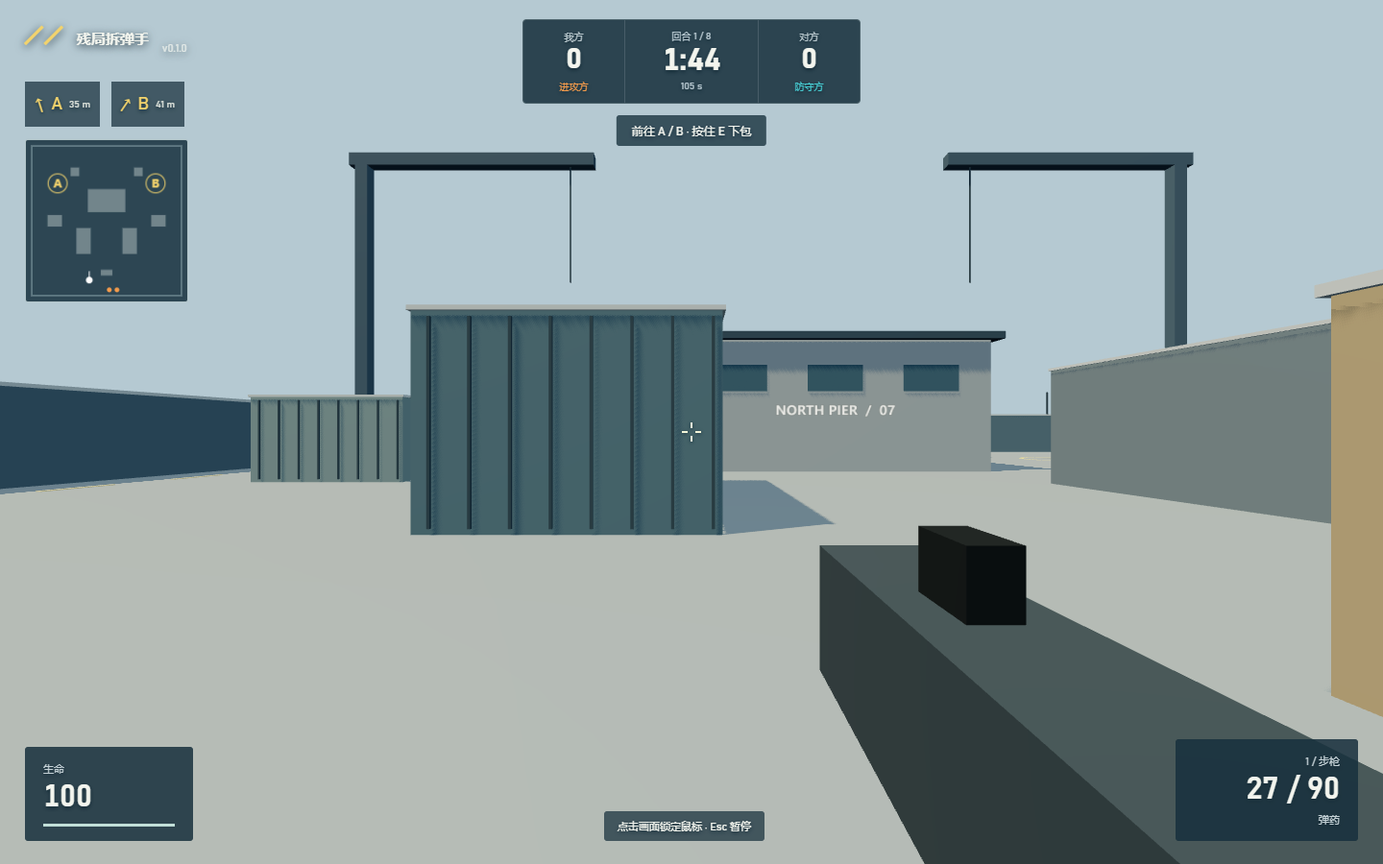
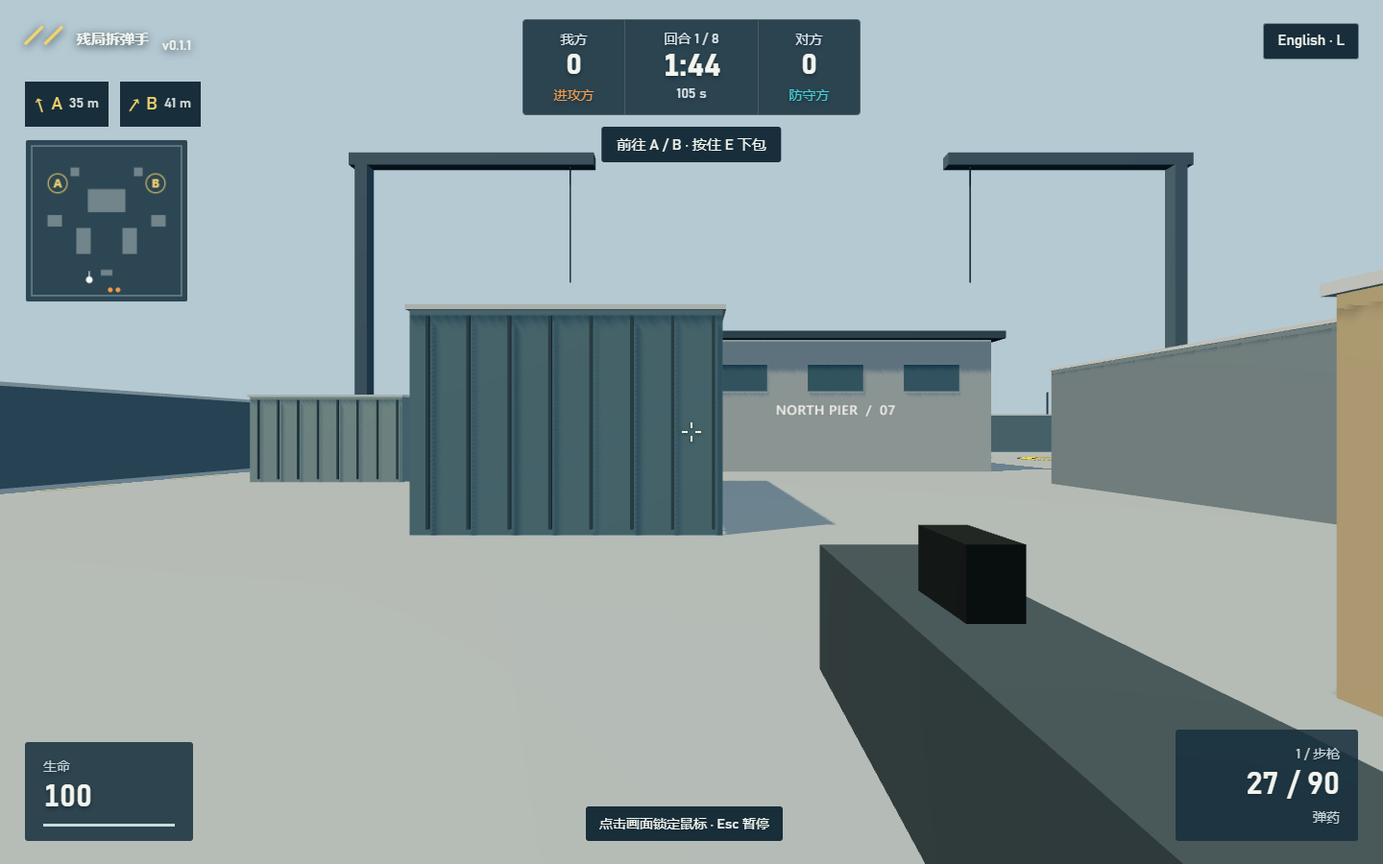
fix: improve gameplay readability and release v0.1.1

diff --git a/src/style.css b/src/style.css
@@ -1,5 +1,12 @@
 :root{font-family:'Bahnschrift','Segoe UI','Microsoft YaHei',sans-serif;color:#f3f5ee;font-synthesis:none;background:#243e4b;--yellow:#f3d36c;--cyan:#47ccd2;--orange:#f49b4b}
-*{box-sizing:border-box}body{margin:0;overflow:hidden}button,select{font:inherit}button{cursor:pointer;color:inherit;background:#284656;border:1px solid #718d98;padding:12px 18px;border-radius:3px}button:hover{background:#3b5a69}button:focus-visible,select:focus-visible{outline:3px solid var(--yellow);outline-offset:4px}button.primary{background:var(--yellow);color:#203745;border-color:var(--yellow);font-weight:700}button.primary:hover{background:#ffe498}[hidden]{display:none!important}#scene{position:fixed;inset:0;display:block;width:100%;height:100%}#brand{position:absolute;left:42px;top:30px;display:flex;align-items:center;gap:14px;text-shadow:0 2px 10px #13252f}#brand-name{font-weight:700;font-size:20px}#brand small{font-size:11px;opacity:.7;align-self:flex-end}.brand-mark{font-size:34px;color:var(--yellow);font-weight:bold;line-height:1}#brand.compact{top:23px;left:25px}#brand.compact #brand-name{font-size:15px}#top-actions{position:absolute;right:32px;top:25px;display:flex;gap:8px;z-index:5}#top-actions button{padding:8px 12px;background:#183541cb;font-size:13px}#menu{position:absolute;inset:0;background:linear-gradient(90deg,#142e3df7 0%,#142e3de8 34%,#142e3d70 57%,transparent 82%);display:flex;align-items:center;padding:95px 6vw 40px}.menu-panel{width:min(540px,48vw)}.location{display:flex;align-items:center;gap:9px;color:#bacbd1;font-size:13px}.location>span{display:block;width:7px;height:7px;border-radius:50%;background:var(--yellow)}h1{font-size:clamp(36px,4.4vw,66px);line-height:1.12;letter-spacing:-1.5px;margin:22px 0;font-weight:750;text-wrap:balance}.intro{max-width:470px;font-size:15px;line-height:1.9;color:#bfced3;margin:0 0 28px}.rules{display:flex;gap:24px;margin:25px 0 30px}.rules>div{flex:1;border-left:2px solid #758890;padding-left:12px}.rules b{display:block;font-size:19px;font-weight:600}.rules span{display:block;font-size:11px;line-height:1.6;color:#aebfc6;margin-top:7px}.settings{display:flex;gap:16px;margin:20px 0}.settings label{flex:1;font-size:12px;color:#c0cdd0;display:grid;gap:8px}select{width:100%;padding:11px 13px;background:#274452;border:1px solid #6c848c;border-radius:3px;color:#f3f5ee}.menu-buttons{display:flex;gap:12px}.primary{min-width:230px;display:flex;justify-content:space-between;align-items:center;gap:25px;font-size:17px}.primary>span{font-size:25px}.match-rule{font-size:11px;color:#b8c7ce;margin-top:15px}.controls{margin-top:25px;padding-top:19px;border-top:1px solid #ffffff25}.controls b{font-size:12px;color:#dce4e6}.controls p{font-size:11px;line-height:1.7;color:#adbec7;margin:6px 0}.desktop{font-size:10px;color:#8fa6b2;margin:17px 0 0}.map-caption{position:absolute;bottom:45px;right:50px;display:flex;align-items:center;gap:18px;text-shadow:0 2px 9px #182c37}.map-caption>span{font-size:64px;font-weight:700;color:#f1e7c0}.map-caption>div{font-size:15px}.map-caption small{display:block;margin-top:9px;opacity:.7;font-size:11px}.in-match{max-width:540px}#hud{position:absolute;inset:0;pointer-events:none;text-shadow:0 2px 4px #142b37}#scoreboard{position:absolute;top:20px;left:50%;transform:translateX(-50%);display:flex;align-items:stretch;background:#17303dde;border:1px solid #92a3a54d;border-radius:4px}.team-score{width:105px;text-align:center;display:flex;flex-direction:column;justify-content:center;padding:10px}.team-score small{font-size:10px;color:#bac9ce}.team-score b{font-size:30px;line-height:1.15}.team-score span{font-size:10px;margin-top:3px}.attack{color:var(--orange)}.defend{color:var(--cyan)}#clock-panel{min-width:140px;display:flex;align-items:center;flex-direction:column;padding:9px 14px;border-left:1px solid #ffffff22;border-right:1px solid #ffffff22}#round{font-size:10px;color:#b7c8d0}#clock{font-size:33px;line-height:1.2;font-variant-numeric:tabular-nums}#clock-label{font-size:10px;color:#b7c8d0}#clock-panel.armed{background:#735329}#clock-panel.armed #clock{color:#ffe49c}#objective{position:absolute;top:120px;left:50%;transform:translateX(-50%);background:#17303dc9;border-radius:3px;padding:8px 16px;font-size:12px;white-space:nowrap}#site-arrows{position:absolute;left:26px;top:85px;display:flex;gap:12px}#site-arrows>span{display:flex;align-items:center;gap:7px;font-size:18px;color:var(--yellow);background:#17303dba;padding:8px 10px}#site-arrows i{display:inline-block;font-style:normal;font-size:22px}#site-arrows small{font-size:10px;color:#dae0d9}#minimap{position:absolute;left:26px;top:145px;width:170px;height:170px;border:1px solid #aebdbb70;border-radius:3px}#feed{position:absolute;right:25px;top:90px;display:grid;gap:5px;text-align:right;font-size:12px}#feed div{padding:8px 12px;background:#17303dd9;border-right:2px solid var(--yellow)}#crosshair{position:absolute;left:50%;top:50%;width:20px;height:20px;transform:translate(-50%,-50%);filter:drop-shadow(0 1px 2px #132c38)}#crosshair i{position:absolute;background:#f4f5d9}#crosshair i:nth-child(1){top:0;left:9px;width:2px;height:6px}#crosshair i:nth-child(2){bottom:0;left:9px;width:2px;height:6px}#crosshair i:nth-child(3){left:0;top:9px;width:6px;height:2px}#crosshair i:nth-child(4){right:0;top:9px;width:6px;height:2px}#interaction{position:absolute;top:59%;left:50%;transform:translateX(-50%);min-width:240px;text-align:center;background:#17303dd9;padding:16px;border:1px solid #d9cf9e66}#interaction strong{font-size:16px}.progress{height:5px;background:#65808b;margin:12px 0 7px}.progress i{display:block;height:100%;background:var(--yellow)}#interaction small{font-size:11px}#bottom{position:absolute;left:26px;right:26px;bottom:24px;display:flex;align-items:flex-end;justify-content:space-between}#vitals,#weapon{min-width:175px;background:#17303ddb;padding:15px 19px;border-radius:3px;display:flex;flex-direction:column;gap:4px}#vitals small,#weapon small{font-size:11px;color:#c5d2d7}#vitals b,#weapon b{font-size:32px;font-weight:600;font-variant-numeric:tabular-nums}#weapon{text-align:right;min-width:190px}#weapon span{font-size:11px;color:#c5d2d7}.health-track{height:3px;background:#46606d;margin-top:4px}.health-track i{display:block;background:#c1dfd8;height:100%}#bottom-hint{font-size:11px;background:#17303dba;padding:8px 14px;border-radius:3px}#spectator{position:absolute;left:50%;bottom:150px;transform:translateX(-50%);font-size:18px;color:var(--yellow);white-space:nowrap}#round-result{position:absolute;top:38%;left:50%;transform:translate(-50%,-50%);background:#17303de8;padding:25px 50px;text-align:center;min-width:340px;border-top:2px solid var(--yellow)}#round-result b{display:block;font-size:29px}#round-result span{display:block;font-size:13px;color:#c9d2d6;margin-top:10px}#damage{position:absolute;inset:0;box-shadow:inset 0 0 100px 35px #d14e35a0;pointer-events:none;opacity:0;z-index:2}#hit{position:absolute;left:50%;top:50%;transform:translate(-50%,-50%);font:32px sans-serif;color:#fff3ac;pointer-events:none;opacity:0;z-index:2}#toast{position:absolute;bottom:20px;left:50%;transform:translateX(-50%)}
+*{box-sizing:border-box}body{margin:0;overflow:hidden}button,select{font:inherit}button{cursor:pointer;color:inherit;background:#284656;border:1px solid #718d98;padding:12px 18px;border-radius:3px}button:hover{background:#3b5a69}button:focus-visible,select:focus-visible{outline:3px solid var(--yellow);outline-offset:4px}button.primary{background:var(--yellow);color:#203745;border-color:var(--yellow);font-weight:700}button.primary:hover{background:#ffe498}[hidden]{display:none!important}#scene{position:fixed;inset:0;display:block;width:100%;height:100%}#brand{position:absolute;left:42px;top:30px;display:flex;align-items:center;gap:14px;text-shadow:0 2px 10px #13252f}#brand-name{font-weight:700;font-size:20px}#brand small{font-size:14px;opacity:1;align-self:flex-end}.brand-mark{font-size:34px;color:var(--yellow);font-weight:bold;line-height:1}#brand.compact{top:23px;left:25px}#brand.compact #brand-name{font-size:15px}#top-actions{position:absolute;right:32px;top:25px;display:flex;gap:8px;z-index:5}#top-actions button{padding:8px 12px;background:#183541cb;font-size:15px}#menu{position:absolute;inset:0;background:linear-gradient(90deg,#142e3df7 0%,#142e3de8 34%,#142e3d70 57%,transparent 82%);display:flex;align-items:flex-start;padding:95px 6vw 40px;overflow-y:auto}.menu-panel{width:min(580px,50vw);margin-block:auto}.location{display:flex;align-items:center;gap:9px;color:#bacbd1;font-size:15px}.location>span{display:block;width:7px;height:7px;border-radius:50%;background:var(--yellow)}h1{font-size:clamp(36px,4.4vw,66px);line-height:1.12;letter-spacing:-1.5px;margin:22px 0;font-weight:750;text-wrap:balance}.intro{max-width:470px;font-size:15px;line-height:1.9;color:#bfced3;margin:0 0 28px}.rules{display:flex;gap:24px;margin:25px 0 30px}.rules>div{flex:1;border-left:2px solid #758890;padding-left:12px}.rules b{display:block;font-size:19px;font-weight:600}.rules span{display:block;font-size:14px;line-height:1.6;color:#dce7ec;margin-top:7px}.settings{display:flex;gap:16px;margin:20px 0}.settings label{flex:1;font-size:15px;color:#c0cdd0;display:grid;gap:8px}select{width:100%;padding:11px 13px;background:#274452;border:1px solid #6c848c;border-radius:3px;color:#f3f5ee}.menu-buttons{display:flex;gap:12px}.primary{min-width:230px;display:flex;justify-content:space-between;align-items:center;gap:25px;font-size:17px}.primary>span{font-size:25px}.match-rule{font-size:14px;color:#dce7ec;margin-top:15px}.controls{margin-top:25px;padding-top:19px;border-top:1px solid #ffffff25}.controls b{font-size:15px;color:#dce4e6}.controls p{font-size:14px;line-height:1.7;color:#dce7ec;margin:6px 0}.desktop{font-size:14px;color:#dce7ec;margin:17px 0 0}.map-caption{position:absolute;bottom:45px;right:50px;display:flex;align-items:center;gap:18px;text-shadow:0 2px 9px #182c37}.map-caption>span{font-size:64px;font-weight:700;color:#f1e7c0}.map-caption>div{font-size:15px}.map-caption small{display:block;margin-top:9px;opacity:1;font-size:14px}.in-match{max-width:540px}#hud{position:absolute;inset:0;pointer-events:none;text-shadow:0 2px 4px #142b37}#scoreboard{position:absolute;top:20px;left:50%;transform:translateX(-50%);display:flex;align-items:stretch;background:#17303dde;border:1px solid #92a3a54d;border-radius:4px}.team-score{width:105px;text-align:center;display:flex;flex-direction:column;justify-content:center;padding:10px}.team-score small{font-size:14px;color:#dce7ec}.team-score b{font-size:30px;line-height:1.15}.team-score span{font-size:14px;margin-top:3px}.attack{color:var(--orange)}.defend{color:var(--cyan)}#clock-panel{min-width:140px;display:flex;align-items:center;flex-direction:column;padding:9px 14px;border-left:1px solid #ffffff22;border-right:1px solid #ffffff22}#round{font-size:14px;color:#dce7ec}#clock{font-size:33px;line-height:1.2;font-variant-numeric:tabular-nums}#clock-label{font-size:14px;color:#dce7ec}#clock-panel.armed{background:#735329}#clock-panel.armed #clock{color:#ffe49c}#objective{position:absolute;top:132px;left:50%;transform:translateX(-50%);background:#102633f2;border-radius:3px;padding:8px 16px;font-size:15px;white-space:nowrap}#site-arrows{position:absolute;left:26px;top:85px;display:flex;gap:12px}#site-arrows>span{display:flex;align-items:center;gap:7px;font-size:18px;color:var(--yellow);background:#102633f2;padding:8px 10px}#site-arrows i{display:inline-block;font-style:normal;font-size:22px}#site-arrows small{font-size:14px;color:#dae0d9}#minimap{position:absolute;left:26px;top:145px;width:170px;height:170px;border:1px solid #aebdbb70;border-radius:3px}#feed{position:absolute;right:25px;top:90px;display:grid;gap:5px;text-align:right;font-size:16px;font-weight:600;max-width:36vw}#feed div{padding:8px 12px;background:#102633f2;border-right:2px solid var(--yellow)}#crosshair{position:absolute;left:50%;top:50%;width:20px;height:20px;transform:translate(-50%,-50%);filter:drop-shadow(0 1px 2px #132c38)}#crosshair i{position:absolute;background:#f4f5d9}#crosshair i:nth-child(1){top:0;left:9px;width:2px;height:6px}#crosshair i:nth-child(2){bottom:0;left:9px;width:2px;height:6px}#crosshair i:nth-child(3){left:0;top:9px;width:6px;height:2px}#crosshair i:nth-child(4){right:0;top:9px;width:6px;height:2px}#interaction{position:absolute;top:59%;left:50%;transform:translateX(-50%);min-width:240px;text-align:center;background:#102633f2;padding:16px;border:1px solid #d9cf9e66}#interaction strong{font-size:16px}.progress{height:5px;background:#65808b;margin:12px 0 7px}.progress i{display:block;height:100%;background:var(--yellow)}#interaction small{font-size:14px}#bottom{position:absolute;left:26px;right:26px;bottom:24px;display:flex;align-items:flex-end;justify-content:space-between}#vitals,#weapon{min-width:175px;background:#17303ddb;padding:15px 19px;border-radius:3px;display:flex;flex-direction:column;gap:4px}#vitals small,#weapon small{font-size:14px;color:#c5d2d7}#vitals b,#weapon b{font-size:32px;font-weight:600;font-variant-numeric:tabular-nums}#weapon{text-align:right;min-width:190px}#weapon span{font-size:14px;color:#c5d2d7}.health-track{height:3px;background:#46606d;margin-top:4px}.health-track i{display:block;background:#c1dfd8;height:100%}#bottom-hint{font-size:14px;background:#102633f2;padding:8px 14px;border-radius:3px}#spectator{position:absolute;left:50%;bottom:150px;transform:translateX(-50%);font-size:20px;font-weight:600;line-height:1.5;color:#ffe477;background:#102633f5;border:1px solid #ffe47780;border-radius:4px;padding:12px 22px;max-width:calc(100% - 40px);width:max-content;text-align:center}#round-result{position:absolute;top:38%;left:50%;transform:translate(-50%,-50%);background:#17303de8;padding:25px 50px;text-align:center;min-width:340px;border-top:2px solid var(--yellow)}#round-result b{display:block;font-size:29px}#round-result span{display:block;font-size:15px;color:#c9d2d6;margin-top:10px}#damage{position:absolute;inset:0;box-shadow:inset 0 0 100px 35px #d14e35a0;pointer-events:none;opacity:0;z-index:2}#hit{position:absolute;left:50%;top:50%;transform:translate(-50%,-50%);font:32px sans-serif;color:#fff3ac;pointer-events:none;opacity:0;z-index:2}#toast{position:absolute;bottom:20px;left:50%;transform:translateX(-50%)}
 #brand{z-index:4}#menu{z-index:3}#hud{z-index:1}#damage,#hit{z-index:2}
-@media(max-height:760px){#menu{padding-top:85px}.menu-panel h1{font-size:44px;margin:15px 0}.intro{font-size:13px;margin-bottom:16px}.rules{margin:18px 0;gap:14px}.controls{margin-top:18px;padding-top:12px}.desktop{margin-top:10px}.map-caption{bottom:25px}}
+@media(max-height:760px){#menu{padding-top:85px}.menu-panel h1{font-size:44px;margin:15px 0}.intro{font-size:15px;margin-bottom:16px}.rules{margin:18px 0;gap:14px}.controls{margin-top:18px;padding-top:12px}.desktop{margin-top:10px}.map-caption{bottom:25px}}
 @media(max-width:850px){#brand{left:22px;top:24px}#brand-name{font-size:15px}#brand small{display:none}#menu{background:#142e3ddc;padding:90px 24px 25px;overflow:auto;align-items:flex-start}.menu-panel{width:min(540px,100%)}.map-caption{display:none}#top-actions{right:18px}#scoreboard{top:65px}.team-score{width:70px}#objective{top:164px}#minimap{top:230px;width:110px;height:110px}#site-arrows{top:188px}#bottom-hint{display:none}#feed{top:230px}#vitals,#weapon{min-width:130px}#brand.compact{left:20px}}
+
+#spectator:empty{display:none}
+.menu-panel{max-height:calc(100dvh - 135px);overflow-y:auto;padding-right:8px;scrollbar-color:#718d98 #17303d;scrollbar-width:thin}
+@media(max-height:760px){.menu-panel{max-height:calc(100dvh - 125px)}}
+@media(max-width:850px){.menu-panel{max-height:calc(100dvh - 115px)}}
+#hud-language{position:absolute;right:25px;top:24px;pointer-events:auto;background:#102633f2;font-size:15px;padding:9px 14px}
+@media(max-width:1100px){#bottom-hint{display:none}}

diff --git a/src/main.ts b/src/main.ts
@@ -13,10 +13,11 @@ try { view = new View(app); } catch (error) { app.textContent = t('unsupported')
 view.reset(game);
 app.insertAdjacentHTML('beforeend', `
   <div id="damage"></div><div id="hit">×</div>
-  <header id="brand"><span class="brand-mark">╱╱</span><span id="brand-name"></span><small>v0.1.0</small></header>
+  <header id="brand"><span class="brand-mark">╱╱</span><span id="brand-name"></span><small>v0.1.1</small></header>
   <div id="top-actions"><button id="sound"></button><button id="language"></button></div>
   <main id="menu"></main>
   <section id="hud" hidden>
+    <button id="hud-language" aria-keyshortcuts="L"></button>
     <div id="scoreboard"><div class="team-score"><small id="ours-label"></small><b id="ours">0</b><span id="our-side"></span></div><div id="clock-panel"><small id="round"></small><strong id="clock">1:45</strong><span id="clock-label"></span></div><div class="team-score"><small id="theirs-label"></small><b id="theirs">0</b><span id="their-side"></span></div></div>
     <div id="objective"></div><div id="site-arrows"></div><canvas id="minimap" width="170" height="170"></canvas>
     <div id="feed" aria-live="polite"></div><div id="crosshair"><i></i><i></i><i></i><i></i></div>
@@ -51,8 +52,11 @@ function restart() {
 }
 function renderMenu() {
   $('brand-name').textContent = t('title'); $('language').textContent = t('lang'); $('sound').textContent = `${t('audio')} ${t(audioEnabled ? 'on' : 'off')}`;
-  document.documentElement.lang = language === 'zh' ? 'zh-CN' : 'en'; document.title = `${t('title')} · v0.1.0`;
+  $('hud-language').textContent = `${t('lang')} · L`;
+  $('hud-language').setAttribute('aria-label', t('languageHint'));
+  document.documentElement.lang = language === 'zh' ? 'zh-CN' : 'en'; document.title = `${t('title')} · v0.1.1`;
   const show = !started || game.paused || game.phase === 'finished'; $('menu').hidden = !show; $('hud').hidden = !started;
+  $('hud-language').hidden = show;
   $('brand').classList.toggle('compact', started); $('top-actions').hidden = started && !show;
   if (!show) return;
   const finished = game.phase === 'finished';
@@ -67,11 +71,13 @@ function renderMenu() {
   });
   $('restart')?.addEventListener('click', restart);
 }
-$('language').addEventListener('click', () => {
+function toggleLanguage() {
   const size = ($('size') as HTMLSelectElement | null)?.value; const difficulty = ($('difficulty') as HTMLSelectElement | null)?.value;
   language = language === 'zh' ? 'en' : 'zh'; localStorage.setItem('lrd-language', language); renderMenu();
   if (size) ($('size') as HTMLSelectElement).value = size; if (difficulty) ($('difficulty') as HTMLSelectElement).value = difficulty;
-});
+}
+$('language').addEventListener('click', toggleLanguage);
+$('hud-language').addEventListener('click', toggleLanguage);
 $('sound').addEventListener('click', () => { audioEnabled = !audioEnabled; renderMenu(); });
 view.renderer.domElement.addEventListener('click', () => { if (started && game.phase !== 'finished' && !document.pointerLockElement) lock(); });
 document.addEventListener('pointerlockchange', () => {
@@ -85,6 +91,7 @@ addEventListener('keydown', e => {
   if (['Space', 'ControlLeft', 'ControlRight', 'Tab'].includes(e.code) && started) e.preventDefault();
   if (e.code === 'Escape') { pause(); return; }
   if (!started || e.repeat) return;
+  if (e.code === 'KeyL') { toggleLanguage(); return; }
   if (e.code === 'KeyR' && (game.paused || game.phase === 'finished')) { restart(); return; }
   if (game.paused || game.phase !== 'live' || game.player.hp <= 0) return;
   keys.add(e.code);

diff --git a/src/view.ts b/src/view.ts
@@ -33,9 +33,13 @@ export class View {
       this.box(x, 3.05, z, w, 0.12, d, 0xa4b0b2);
     }
     for (const s of sites) {
-      const ring = new THREE.Mesh(new THREE.RingGeometry(2.8, 3.05, 64), new THREE.MeshBasicMaterial({ color: 0xf3d36c, side: THREE.DoubleSide }));
+      // Shared A/B markings: a 0.65 m bright band with a dark outline on either edge.
+      // Keep the outer edge at the original site boundary; this is only ground paint.
+      const outline = new THREE.Mesh(new THREE.RingGeometry(2.25, 3.17, 96), new THREE.MeshBasicMaterial({ color: 0x172630, side: THREE.DoubleSide, toneMapped: false }));
+      outline.rotation.x = -Math.PI / 2; outline.position.set(s.x, 0.02, s.z); this.scene.add(outline);
+      const ring = new THREE.Mesh(new THREE.RingGeometry(2.4, 3.05, 96), new THREE.MeshBasicMaterial({ color: 0xffdf32, side: THREE.DoubleSide, toneMapped: false }));
       ring.rotation.x = -Math.PI / 2; ring.position.set(s.x, 0.025, s.z); this.scene.add(ring);
-      const letter = this.label(s.name, 256, '#f3d36c'); const plane = new THREE.Mesh(new THREE.PlaneGeometry(3, 3), new THREE.MeshBasicMaterial({ map: letter, transparent: true, depthWrite: false }));
+      const letter = this.label(s.name, 256, '#ffdf32'); const plane = new THREE.Mesh(new THREE.PlaneGeometry(3, 3), new THREE.MeshBasicMaterial({ map: letter, transparent: true, depthWrite: false, toneMapped: false }));
       plane.rotation.x = -Math.PI / 2; plane.position.set(s.x, 0.03, s.z); this.scene.add(plane);
       this.sign(s.name, s.x, 4.1, -25.9, 3, 0xf3d36c);
     }
@@ -77,12 +81,21 @@ export class View {
     for (const m of this.models.values()) { this.scene.remove(m); this.disposeTree(m); } this.models.clear();
     for (const a of game.actors) {
       const g = new THREE.Group(); const attack = game.side(a.team) === 'attack'; const color = attack ? 0xf49b4b : 0x47ccd2;
-      this.box(0, 0.95, 0, 0.58, 0.75, 0.36, 0x394b58, g);
+      this.box(0, 0.95, 0, 0.58, 0.75, 0.36, color, g);
       for (const x of [-0.18, 0.18]) this.box(x, 0.36, 0, 0.2, 0.72, 0.25, 0x283b47, g);
       this.box(0, 1.52, 0, 0.35, 0.35, 0.33, 0xb5a696, g);
       if (attack) { const cap = new THREE.Mesh(new THREE.ConeGeometry(0.29, 0.25, 4), new THREE.MeshStandardMaterial({ color })); cap.position.y = 1.82; g.add(cap); }
       else this.box(0, 1.76, 0, 0.49, 0.19, 0.45, color, g);
-      this.box(-0.37, 1.16, 0, 0.16, 0.24, 0.4, color, g); this.box(0.37, 1.16, 0, 0.16, 0.24, 0.4, color, g);
+      for (const x of [-0.37, 0.37]) {
+        const shoulder = this.box(x, 1.16, 0, 0.16, 0.24, 0.4, color, g);
+        // Raised triangular orange insignia versus rectangular cyan insignia.
+        // Decorative badges do not change the original shoulder hit volumes.
+        const badge = new THREE.Mesh(attack ? new THREE.ConeGeometry(0.16, 0.24, 3) : new THREE.BoxGeometry(0.27, 0.17, 0.06), new THREE.MeshBasicMaterial({ color, toneMapped: false }));
+        if (attack) badge.scale.z = 0.22;
+        badge.position.set(x, 1.18, -0.23); badge.raycast = () => {};
+        g.add(badge);
+        (shoulder.material as THREE.MeshStandardMaterial).color.setHex(0x263b47);
+      }
       this.box(0.25, 1.04, -0.38, 0.12, 0.14, 0.7, 0x1d2a31, g);
       g.traverse(o => { o.userData.actor = a.id; }); this.models.set(a.id, g); this.scene.add(g);
     }

diff --git a/src/i18n.ts b/src/i18n.ts
@@ -12,7 +12,8 @@ export const zh = {
   objectiveAttack: '前往 A / B · 按住 E 下包', objectiveDefend: '守住 A / B · 阻止下包',
   objectiveArmedAttack: '保护炸弹 · 等待爆炸', objectiveArmedDefend: '找到炸弹 · 按住 E 拆包',
   controls: 'WASD 移动 · 鼠标瞄准 · 左键射击', controls2: 'Shift 静步 · Ctrl 蹲 · 空格跳 · R 换弹 · 1 / 2 / 3 切枪',
-  controls3: 'E 长按下包 / 拆包 · Esc 暂停 · 切换标签自动暂停',
+  controls3: 'E 长按下包 / 拆包 · Esc 暂停 · L 切换中英 · 切换标签自动暂停',
+  languageHint: '切换中英（L，局内随时可用）',
   rule1: '固定装备', rule1body: '每回合步枪、手枪、刀', rule2: '105 秒', rule2body: '下包 3 秒 · 拆包 5 秒', rule3: '40 秒', rule3body: '下包后独立爆炸倒计时',
   hint: '点击画面锁定鼠标 · Esc 暂停', pauseHint: '计时与 AI 已暂停。点击继续作战锁定鼠标。',
   pointerError: '鼠标锁定失败。请点击继续作战重试；需使用桌面浏览器。',
@@ -36,7 +37,8 @@ export const en: Record<Key, string> = {
   objectiveAttack: 'Reach A / B · Hold E to plant', objectiveDefend: 'Hold A / B · Prevent the plant',
   objectiveArmedAttack: 'Protect the charge · Hold until detonation', objectiveArmedDefend: 'Find the charge · Hold E to defuse',
   controls: 'WASD move · Mouse aim · Left click fire', controls2: 'Shift walk · Ctrl crouch · Space jump · R reload · 1 / 2 / 3 weapons',
-  controls3: 'Hold E plant / defuse · Esc pause · Switching tabs pauses the match',
+  controls3: 'Hold E plant / defuse · Esc pause · L language · Switching tabs pauses the match',
+  languageHint: 'Switch Chinese / English (L, anytime during a match)',
   rule1: 'Fixed loadout', rule1body: 'Rifle, pistol and knife each round', rule2: '105 seconds', rule2body: 'Plant in 3 s · Defuse in 5 s', rule3: '40 seconds', rule3body: 'Independent countdown once planted',
   hint: 'Click to lock mouse · Esc to pause', pauseHint: 'Clock and AI are paused. Resume to lock your mouse.',
   pointerError: 'Mouse lock failed. Click Resume to retry in a desktop browser.',

diff --git a/README.md b/README.md
@@ -1,6 +1,6 @@
 # 残局拆弹手 / Last Round Defuse
 
-原创港口仓库第一人称爆破回合原型，**v0.1.0**。Vite + Three.js + TypeScript。
+原创港口仓库第一人称爆破回合原型，**v0.1.1**。Vite + Three.js + TypeScript。
 
 **在线游玩：https://Tina2088.github.io/last-round-defuse/**
 
@@ -37,6 +37,7 @@ npm run preview
 | 换弹 / 步枪、手枪、刀 | R / 1、2、3 |
 | 下包 / 拆包 | 包点 / 炸弹附近按住 E |
 | 暂停 | Esc，切换标签页也自动暂停 |
+| 中英切换 | 局内按 L（含观战），或暂停菜单右上角语言按钮 |
 | 重开整场 | 暂停或结算后 R，也可点击菜单按钮 |
 
 ## 规则
@@ -47,7 +48,7 @@ npm run preview
 - 中性黄环 A/B 点内按住 E 3 秒下包；拆包需 5 秒，无拆弹器。松手、受伤、离开范围会清零。
 - 下包后改为独立 40 秒倒计时；只以拆除或爆炸结算，攻方全灭不会终止倒计时。
 - 1v1、2v2、3v3；玩家占我方一个名额，其余均为 AI。简单 / 普通两档。
-- 攻方橙色尖帽、肩标；守方青色方帽、肩标。阵亡后观战队友，没有存活队友时显示俯瞰视角。
+- 攻方橙色躯干、尖顶头盔与三角肩标；守方青色躯干、方形头盔与矩形肩标。阵亡后观战队友，没有存活队友时显示俯瞰视角。
 
 ## 部署
 

diff --git a/docs/DEV-TASK-003.md b/docs/DEV-TASK-003.md
@@ -1,0 +1,15 @@
+# DEV-TASK-003 · 残局拆弹手 v0.1.1 · 美术可读性修复
+
+基于游戏美术对 https://tina2088.github.io/last-round-defuse/ 的抽查，修复以下问题后 bump 到 v0.1.1，重新 build、deploy Pages，更新 docs/DEV-REPORT.md。
+
+## 必改
+1. 包点地面黄环加粗、提高亮度/对比，远距离可见；A 与 B 同规格。
+2. 观战「等待下一回合」黄字加深色底条，保证可读。
+3. 击杀提示、菜单脚注、偏小/低对比的 HUD 文字：放大并提高对比。
+4. 局内可随时切换中英：在 HUD 或暂停菜单加语言切换入口（定稿要求随时切换，不能只有开始菜单）。
+5. 确认 3D 角色模型本身：攻方橙、守方青，且头盔/肩标形状不同（不只靠 HUD 字色）。
+
+## 约束
+- 不改玩法规则与无买枪范围。
+- 工作目录：D:\tinacode\last-round-defuse
+- 部署后确认公网 200，报告里写清变更与自测。

diff --git a/docs/DEV-REPORT.md b/docs/DEV-REPORT.md
@@ -1,6 +1,6 @@
 # DEV-REPORT · 残局拆弹手 / Last Round Defuse
 
-- 版本：**v0.1.0**
+- 版本：**v0.1.1**
 - 完成日期：2026-11-05（Asia/Shanghai）
 - 规格：[DEV-TASK-002.md](DEV-TASK-002.md)
 - 公开 HTTPS：**https://tina2088.github.io/last-round-defuse/**
